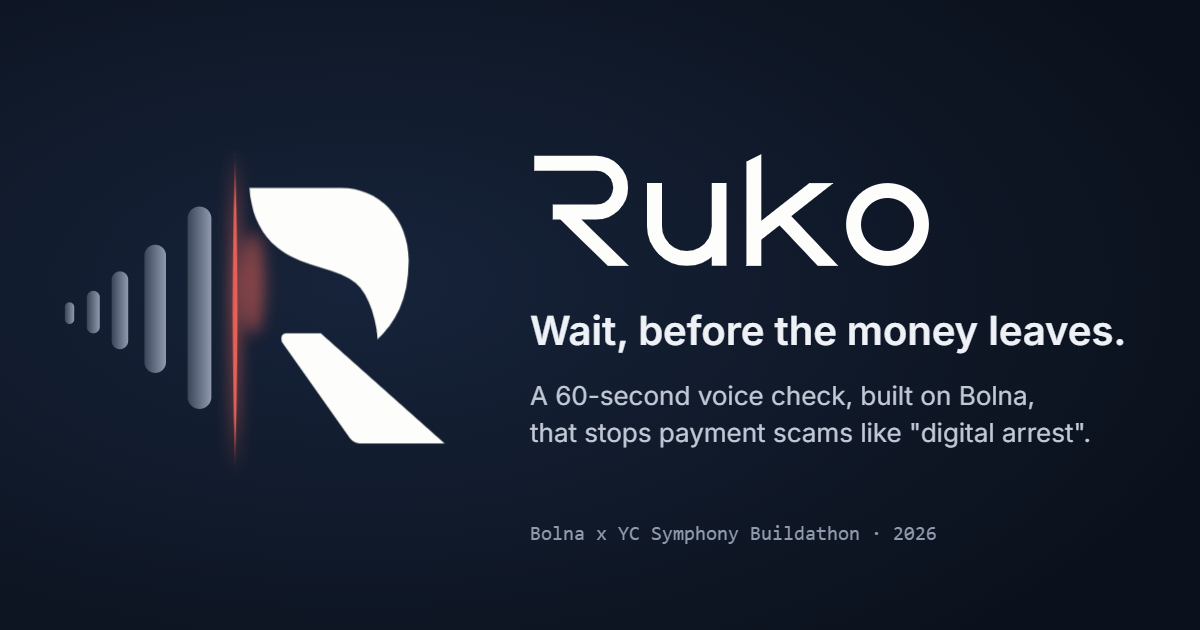
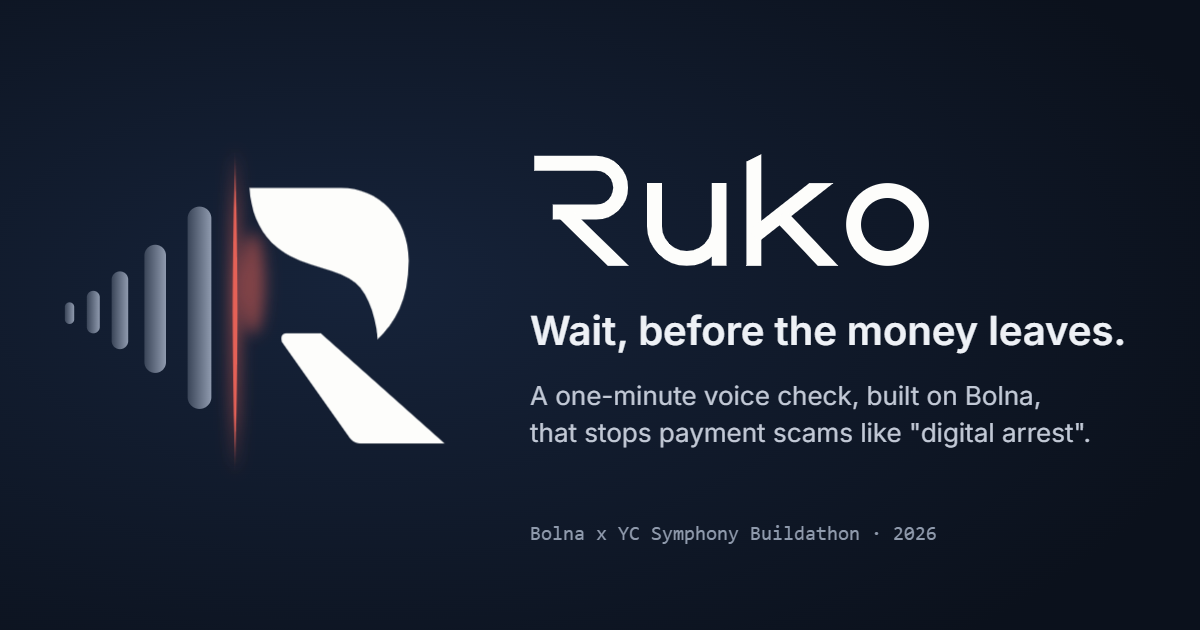
Claims: 'about a minute', honest Bolna status, never-read-the-code warning, full 72-pattern library
- 'about a minute' replaces '60-second' in the OG card, meta description and
  business doc (README and memo already)
- Bolna features that no paid call has exercised yet are labelled 'wired ·
  live call pending' on the landing page and in the README
- Hold screen: 'Never read this code to anyone. Ruko says it to you.' (en/hi)
- Console Library shows the full research library (72 patterns) from
  /api/console/library, and says when a ?p= pattern isn't found
- README test counts updated

Changed region(s): [[0.4625, 0.6032, 0.8633, 0.6635]]

diff --git a/src/pages/landing/sections.tsx b/src/pages/landing/sections.tsx
@@ -213,12 +213,13 @@ export function Results() {
   );
 }
 
-const BOLNA: { icon: ReactNode; title: string; body: string; status: "live" | "configured" | "documented" }[] = [
+// "wired": built, deployed and tested against the engine, but no paid live call has run through it yet.
+const BOLNA: { icon: ReactNode; title: string; body: string; status: "live" | "wired" | "configured" | "documented" }[] = [
   { icon: <AudioLines />, title: "Voice agents (Agent API v2)", body: "Three agents built and kept in sync over the API: the payment safety check, the trusted-contact call and the public safety line. All saved unrestricted under Bolna's content-safety checks.", status: "live" },
   { icon: <Languages />, title: "Multilingual, mid-call switching", body: "English and Hindi, with the call starting in the customer's language and switching if they do. Hinglish is handled by the Hindi stack (Sarvam saaras:v3 + bulbul:v3).", status: "configured" },
-  { icon: <Braces />, title: "Custom functions", body: "Five tools call Ruko mid-call: get_check_context, record_signal, call_trusted_contact, check_trusted_contact, set_decision. Prompt variables fill check_id and the call reference.", status: "live" },
-  { icon: <Globe2 />, title: "Web Call SDK", body: "The demo and the public line call in the browser. Sessions are minted server-side, single-use, behind an access code, daily caps and a wallet floor.", status: "live" },
-  { icon: <Webhook />, title: "Execution webhooks", body: "Token-protected, idempotent per execution and status, and every terminal event is re-read from Bolna's API before it can change a decision.", status: "live" },
+  { icon: <Braces />, title: "Custom functions", body: "Five tools call Ruko mid-call: get_check_context, record_signal, call_trusted_contact, check_trusted_contact, set_decision. Prompt variables fill check_id and the call reference.", status: "wired" },
+  { icon: <Globe2 />, title: "Web Call SDK", body: "The demo and the public line call in the browser. Sessions are minted server-side, single-use, behind an access code, daily caps and a wallet floor.", status: "wired" },
+  { icon: <Webhook />, title: "Execution webhooks", body: "Token-protected, idempotent per execution and status, and every terminal event is re-read from Bolna's API before it can change a decision.", status: "wired" },
   { icon: <Gauge />, title: "Preferred models, flat rate", body: "gpt-4.1-mini, Deepgram nova-3, Sarvam saaras:v3, ElevenLabs turbo v2.5 and Sarvam bulbul:v3: all inside Bolna's flat per-minute rate.", status: "configured" },
   { icon: <PhoneForwarded />, title: "Transfer to a human fraud desk", body: "For banks that need a human in the loop (the UK's FCA expects one), the agent's transfer tool hands the call to the bank's fraud desk number.", status: "documented" },
   { icon: <Layers />, title: "Batch calls for back-testing", body: "A bank can replay last quarter's flagged payments as a Bolna batch against consenting staff, to tune the policy before going live.", status: "documented" },
@@ -241,10 +242,10 @@ export function BuiltOnBolna() {
                   <span
                     className={cn(
                       "rounded-full px-2 py-0.5 text-[10.5px] font-semibold uppercase tracking-wide",
-                      f.status === "live" ? "bg-go-soft text-go" : f.status === "configured" ? "bg-paper-3 text-ink-2" : "border border-hair text-muted",
+                      f.status === "live" ? "bg-go-soft text-go" : f.status === "wired" ? "bg-accent-soft text-ink" : f.status === "configured" ? "bg-paper-3 text-ink-2" : "border border-hair text-muted",
                     )}
                   >
-                    {f.status === "live" ? "in use" : f.status}
+                    {f.status === "live" ? "in use" : f.status === "wired" ? "wired · live call pending" : f.status}
                   </span>
                 </span>
               }

diff --git a/src/pages/console/Library.tsx b/src/pages/console/Library.tsx
@@ -133,7 +133,16 @@ interface LibraryData {
 }
 
 async function loadLibrary(): Promise<LibraryData> {
-  const res = (await api.patterns()) as Awaited<ReturnType<typeof api.patterns>> & { categories?: unknown; sources?: unknown };
+  // The full research library (72 patterns, India and global) when the deployment bundles it,
+  // the 12-pattern core otherwise. The signal taxonomy always comes from the core API.
+  const core = await api.patterns();
+  const full = await fetch("/api/console/library")
+    .then((r) => (r.ok ? (r.json() as Promise<{ patterns: PatternView[]; categories?: unknown; sources?: unknown }>) : null))
+    .catch(() => null);
+  const res = { ...core, ...(full ? { data: full.patterns, categories: full.categories, sources: full.sources } : {}) } as Awaited<ReturnType<typeof api.patterns>> & {
+    categories?: unknown;
+    sources?: unknown;
+  };
   const categories = new Map<string, string>();
   if (Array.isArray(res.categories))
     for (const c of res.categories) if (c && typeof c === "object" && typeof (c as Dict<unknown>).id === "string") categories.set((c as Dict<string>).id, String((c as Dict<unknown>).name ?? (c as Dict<string>).id));
@@ -177,6 +186,7 @@ export function Library() {
   }, [data]);
 
   const current = data?.patterns.find((p) => p.id === selected) ?? null;
+  const missing = Boolean(data && selected && !current);
   const shown = current ?? list[0] ?? null;
 
   if (!data) {
@@ -186,10 +196,15 @@ export function Library() {
 
   return (
     <div className="space-y-5">
+      {missing && (
+        <div role="status" className="rounded-2xl border border-hair bg-paper-2 px-4 py-3 text-[13.5px] text-ink-2">
+          Pattern “{selected}” was not found in this library. Showing the full list instead.
+        </div>
+      )}
       <Reveal>
         <div className="flex flex-col gap-4 md:flex-row md:items-end md:justify-between">
           <p className="max-w-[68ch] text-[14px] leading-relaxed text-muted">
-            Each pattern is built from official Indian advisories, with its sources. The agent names a pattern from the signals it hears, then says the pattern's one-line truth to break the
+            {data.patterns.length} patterns, India first, each with its sources (official advisories wherever they exist; machine-drafted translations are labelled). The agent names a pattern from the signals it hears, then says the pattern's one-line truth to break the
             script. It never improvises official advice.
           </p>
           <div className="relative shrink-0 overflow-x-auto">

diff --git a/src/components/demo/Screens.tsx b/src/components/demo/Screens.tsx
@@ -23,6 +23,8 @@ const T = {
     paused: "Payment paused",
     calling: "Your bank is calling you now to check it's really you. The assistant will say this code word first:",
     neverOtp: "Ruko never asks for your OTP, PIN or card details.",
+    codeLabel: "Code word",
+    neverRead: "Never read this code to anyone. Ruko says it to you.",
     answer: "Answer the call",
     replay: "Watch the recorded run",
     sent: "Payment sent",
@@ -41,6 +43,8 @@ const T = {
     paused: "भुगतान रुका है",
     calling: "आपका बैंक अभी आपको कॉल कर रहा है। सहायक सबसे पहले यह कोड शब्द बोलेगी:",
     neverOtp: "रुको कभी आपका ओटीपी, पिन या कार्ड नंबर नहीं माँगता।",
+    codeLabel: "कोड शब्द",
+    neverRead: "यह कोड किसी को पढ़कर न सुनाएँ। रुको इसे आपको बोलती है।",
     answer: "कॉल उठाएँ",
     replay: "रिकॉर्डेड रन देखें",
     sent: "भुगतान भेजा गया",
@@ -177,10 +181,11 @@ export function HoldScreen({
         <p className="mt-2 text-[14px] leading-snug text-[#161f2e]">{t.calling}</p>
         <div className="relative mt-6 grid place-items-center rounded-3xl bg-[#161f2e] px-4 py-6 text-[#fdfdfb]">
           {!reduce && <span aria-hidden className="animate-ring absolute inset-0 rounded-3xl border-2 border-[#fdfdfb]/50" />}
-          <span className="t-eyebrow !text-[10.5px] !text-[#f7b9b1]">Code word</span>
+          <span className="t-eyebrow !text-[10.5px] !text-[#f7b9b1]">{t.codeLabel}</span>
           <span className="mt-1 font-display text-[34px] font-semibold tracking-[0.04em]" aria-live="polite">
             {code}
           </span>
+          <span className="mt-1.5 text-center text-[11.5px] font-medium text-[#f7b9b1]">{t.neverRead}</span>
         </div>
         <p className="mt-4 text-[12.5px] font-medium text-[#161f2e]">{t.neverOtp}</p>
         <div className="mt-auto space-y-2.5">

diff --git a/scripts/brand.ts b/scripts/brand.ts
@@ -80,7 +80,7 @@ function ogCard() {
   <g transform="translate(40 95) scale(0.72)">${markGroup("dark", "og")}</g>
   <g transform="translate(${530 - 15 * s} ${150 - 20 * s}) scale(${s})">${wordmarkGroup("dark")}</g>
   <text x="530" y="345" font-family="Inter, Segoe UI, Arial, sans-serif" font-size="40" font-weight="600" fill="#eef1f6">Wait, before the money leaves.</text>
-  <text x="530" y="405" font-family="Inter, Segoe UI, Arial, sans-serif" font-size="26" fill="#c2c9d6">A 60-second voice check, built on Bolna,</text>
+  <text x="530" y="405" font-family="Inter, Segoe UI, Arial, sans-serif" font-size="26" fill="#c2c9d6">A one-minute voice check, built on Bolna,</text>
   <text x="530" y="442" font-family="Inter, Segoe UI, Arial, sans-serif" font-size="26" fill="#c2c9d6">that stops payment scams like "digital arrest".</text>
   <text x="530" y="540" font-family="Consolas, monospace" font-size="20" fill="#8f9aac">Bolna x YC Symphony Buildathon · 2026</text>
 </svg>\n`;

diff --git a/index.html b/index.html
@@ -10,7 +10,7 @@
       content="Ruko holds a risky payment and calls the customer in their language within seconds, using a Bolna voice agent. It breaks the scammer's script and releases, delays or blocks the payment."
     />
     <meta property="og:title" content="Ruko: wait, before the money leaves" />
-    <meta property="og:description" content="A 60-second voice check, built on Bolna, that stops authorised-payment scams like 'digital arrest'." />
+    <meta property="og:description" content="A voice check of about a minute, built on Bolna, that stops authorised-payment scams like 'digital arrest'." />
     <meta property="og:image" content="/og.png" />
     <meta property="og:type" content="website" />
     <meta name="twitter:card" content="summary_large_image" />

diff --git a/README.md b/README.md
@@ -68,11 +68,11 @@ sequenceDiagram
 
 | Bolna feature | How Ruko uses it | Status |
 |---|---|---|
-| Agent API v2 | Three agents built and kept in sync by `npm run bolna:setup`: payment safety check, trusted-contact call, public safety line. All saved with `restricted: false` under Bolna's content-safety checks. | in use |
-| Multilingual config | English + Hindi with mid-call switching; the call starts in the customer's language via `agent_language`. | configured |
-| Custom functions | `get_check_context`, `record_signal`, `call_trusted_contact`, `check_trusted_contact`, `set_decision` (+ `report_contact_outcome`, `lookup_pattern`, `log_report`). Prompt variables fill `check_id` and the call reference; every parameter is required because Bolna fills requests from `%(name)s` templates. | in use |
-| Web Call SDK (`@bolna/web-call`) | Browser calls in the demo, the trusted contact's "phone" and the public line. Sessions are minted server-side, single-use, behind an access code, a daily cap, a per-visitor cap and a wallet floor read from `GET /user/me`. | in use |
-| Webhooks | Token-protected, optional IP allowlist (Bolna's three published IPs), idempotent per execution and status; terminal events are **re-read from Bolna's API** before they can change a decision. | in use |
+| Agent API v2 | Three agents built and kept in sync by `npm run bolna:setup`: payment safety check, trusted-contact call, public safety line. All saved with `restricted: false` under Bolna's content-safety checks; `npm run bolna:check` diffs the saved agents against the repo. | in use (synced, no drift) |
+| Multilingual config | English + Hindi with mid-call switching; the call starts in the customer's language via `agent_language`. | configured; first live Hindi call pending |
+| Custom functions | `get_check_context`, `record_signal`, `call_trusted_contact`, `check_trusted_contact`, `set_decision` (+ `report_contact_outcome`, `lookup_pattern`, `log_report`). Prompt variables fill `check_id` and the call reference; every parameter is required because Bolna fills requests from `%(name)s` templates. | wired and tested against the engine; first live call pending |
+| Web Call SDK (`@bolna/web-call`) | Browser calls in the demo, the trusted contact's "phone" and the public line. Sessions are minted server-side, single-use, behind an access code, a daily cap, a per-code cap and a wallet floor read from `GET /user/me`. | wired (deployed, gated); first live call pending |
+| Webhooks | Token-protected, optional IP allowlist (Bolna's three published IPs), idempotent per execution and status; terminal events are **re-read from Bolna's API** before they can change a decision. | wired and tested; first live call pending |
 | Preferred models | gpt-4.1-mini, Deepgram nova-3, Sarvam saaras:v3, ElevenLabs eleven_turbo_v2_5, Sarvam bulbul:v3: all inside Bolna's flat per-minute rate. | configured |
 | Transfer to a human | Documented option for banks that need a human in the loop (UK FCA FG24/6): add Bolna's transfer tool with the bank's fraud-desk number. | documented |
 | Batch calls | Documented for bank-scale back-testing of the policy against consenting staff. | documented |
@@ -124,7 +124,7 @@ npm run dev                   # http://localhost:5410 (app + API on one server)
 Without a Bolna key everything works except live calls: the sandbox shows the recorded run, which replays a text-mode conversation's tool calls into the live engine.
 
 ```bash
-npm run check                 # type-check, lint, unit tests (57), secret scan
+npm run check                 # type-check, lint, unit tests (105), text-model tests (73), secret scan
 npm run build && npx tsx scripts/serve-prod.ts 5430   # production build, served like Vercel
 node scripts/e2e.mjs http://localhost:5430            # every scenario + a full recorded run
 node scripts/screenshots.mjs http://localhost:5430    # docs/screenshots at 1440 and 375

diff --git a/docs/BUSINESS.md b/docs/BUSINESS.md
@@ -1,6 +1,6 @@
 # Ruko: business plan
 
-Ruko sells banks and payment apps a 60-second voice check on risky payments. They pay per completed check, and nothing for payments that pass. India comes first, then markets where banks pay for scam losses, starting with the UK.
+Ruko sells banks and payment apps a voice check of about a minute on risky payments. They pay per completed check, and nothing for payments that pass. India comes first, then markets where banks pay for scam losses, starting with the UK.
 
 Status: 22 October 2026. Every web source in this document was accessed in October 2026. Figures marked **(derived)** are our arithmetic on a cited figure. Figures marked **(assumption)** or **(estimate)** are ours. [RESEARCH.md](RESEARCH.md) has the wider evidence and [CITATIONS.md](CITATIONS.md) the audit.
 
